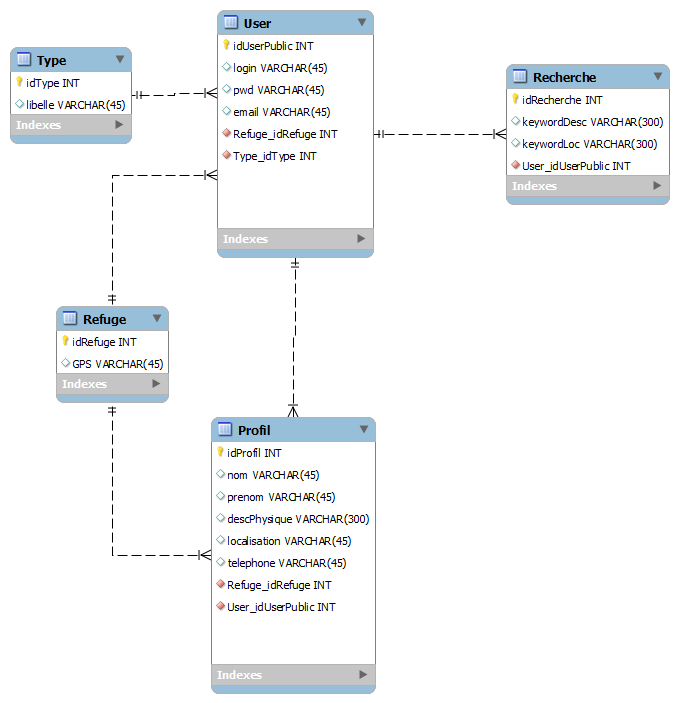
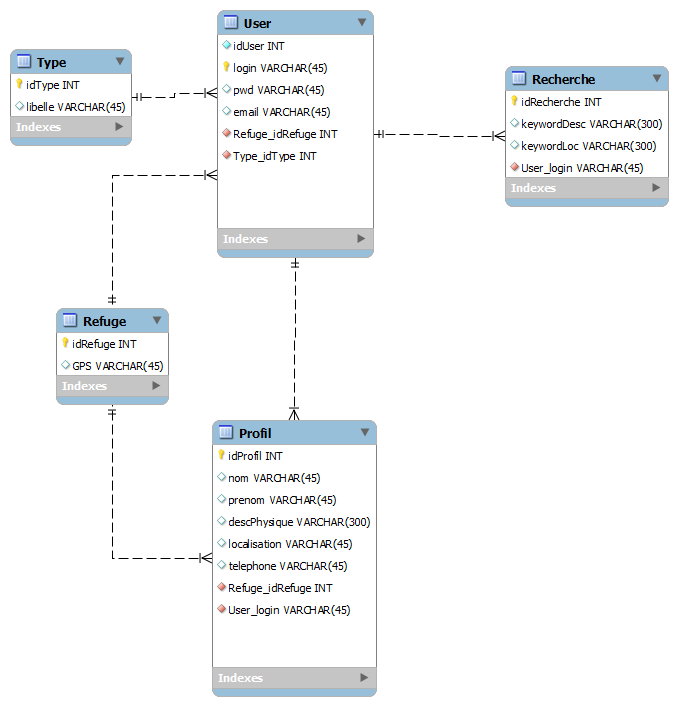
Modification de la BDD pour transformer le Login en clef primaire dans User

diff --git a/site/core/database/User.php b/site/core/database/User.php
@@ -58,10 +58,6 @@
 	/* ******************************************************
 	 * 	Setters
 	 * ******************************************************/
-	public function setLogin($login) {
-		$this->login = $login;
-	}
-
 	public function setPwd($pwd) {
 		$this->pwd = $pwd;
 	}
